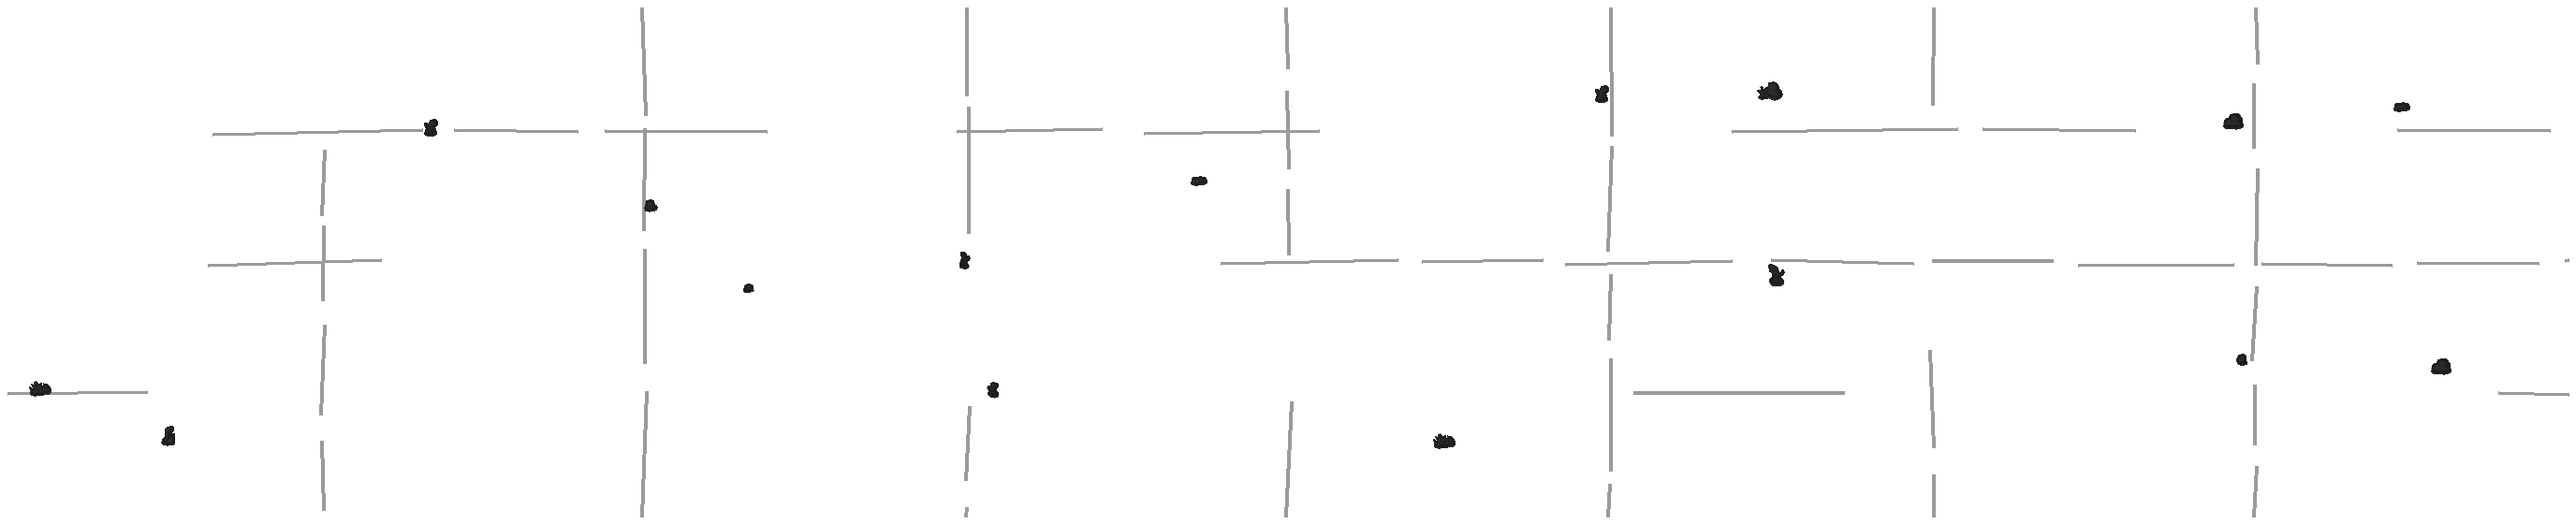
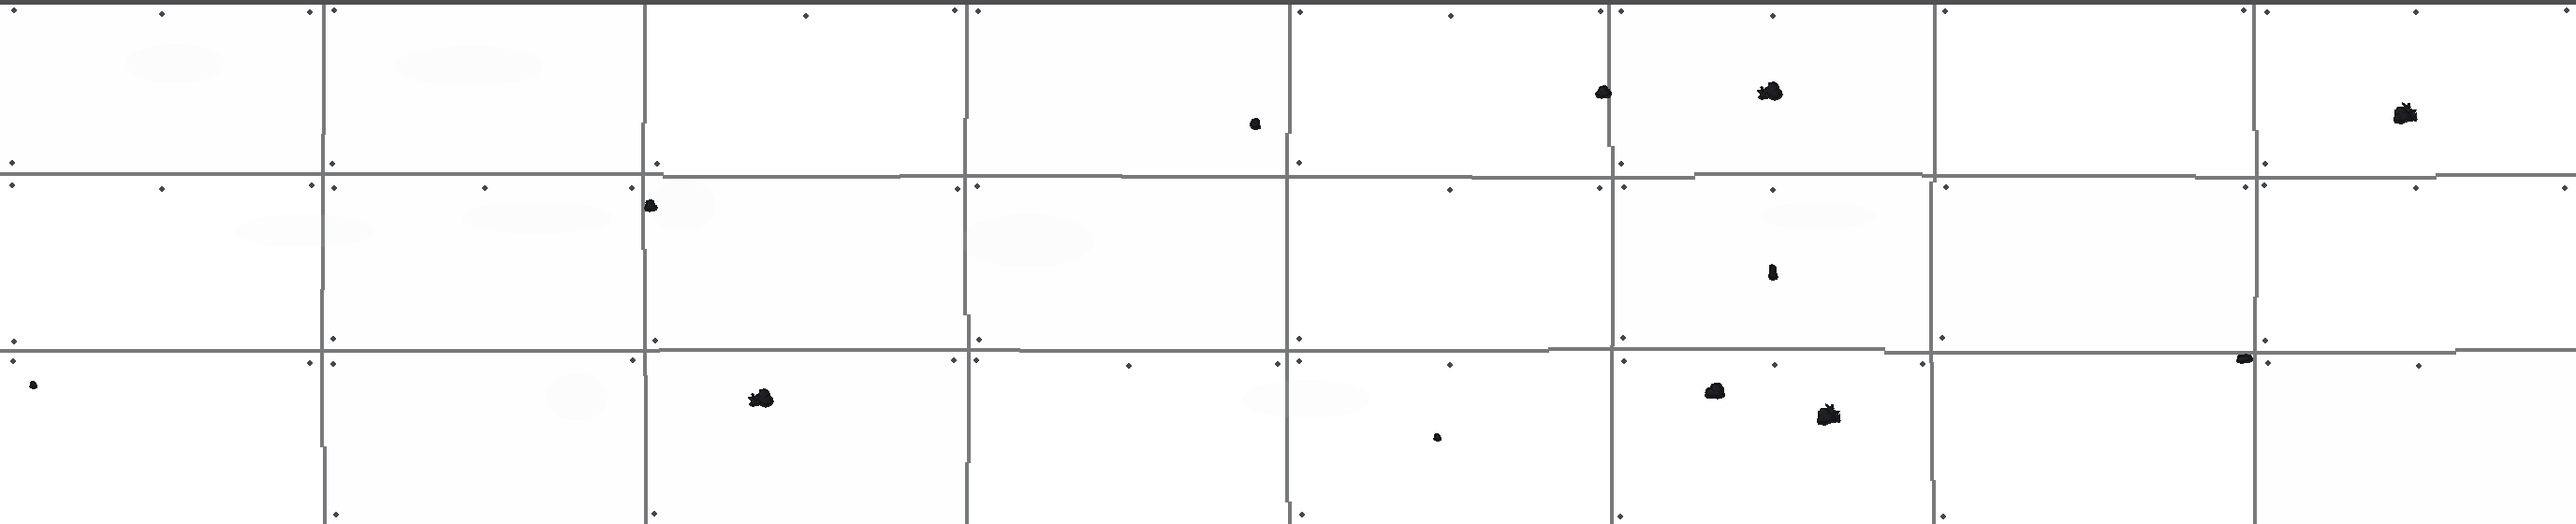
Deck floor v2 - riveted plate decking (design story: the platform top): full 8x3 plate grid with per-plate FLAT tone variation, soft continuous seams with jittered joints, rivets along plate edges, sparse scuffs, cool-tinted debris; replaces the sparse dashed crosses

diff --git a/asset-dev/hub/build_ground.py b/asset-dev/hub/build_ground.py
@@ -96,32 +96,67 @@ n2 = scatter(plaza, tufts, 34, (0.55, 0.60, 0.52))
 plaza.save(OUT1 + "ground_plaza.png"); plaza.save(OUT2 + "ground_plaza.png")
 print("plaza decals:", n1 + n2)
 
-# DECK overlay 2752x560: plate seams (soft wobbly lines) + few gray rocks
+# DECK overlay 2752x560 v2 - riveted plate decking (the platform's top):
+# full plate grid, per-plate FLAT tone variation, soft continuous seams with
+# jittered joints, rivets along edges, sparse scuffs + debris.
 deck = Image.new("RGBA", (2752, 560), (0, 0, 0, 0))
 dd = ImageDraw.Draw(deck)
-seam = (22, 24, 28, 110)
-for i, sx in enumerate(range(-1376+344, 1376, 344)):
-    px = sx + 1376
-    rnd = random.Random(900 + i)
-    yy = 8
-    while yy < 552:
-        seg = rnd.randint(60, 140)
-        if rnd.random() > 0.25:
-            dd.line([(px + rnd.randint(-3, 3), yy), (px + rnd.randint(-3, 3), min(552, yy + seg))],
-                    fill=seam, width=4)
-        yy += seg + rnd.randint(10, 30)
-for j, sy in enumerate(range(140, 560, 140)):
-    rnd = random.Random(950 + j)
-    xx = 8
-    while xx < 2744:
-        seg = rnd.randint(120, 260)
-        if rnd.random() > 0.3:
-            dd.line([(xx, sy + rnd.randint(-3, 3)), (min(2744, xx + seg), sy + rnd.randint(-3, 3))],
-                    fill=seam, width=4)
-        xx += seg + rnd.randint(20, 50)
-n3 = scatter(deck, rocks, 16, (0.5, 0.52, 0.56), margin=30, scale=0.8)
+seam = (26, 27, 31, 150)
+rivet = (30, 31, 35, 210)
+rndDk = random.Random(880)
+PW, PH = 344, 187
+cols = 2752 // PW
+rows = 3
+# per-plate tone variation (flat overlays)
+for r in range(rows):
+    for cix in range(cols):
+        tone = rndDk.randint(-4, 5)
+        if tone == 0:
+            continue
+        col = (255, 255, 255, tone * 3) if tone > 0 else (0, 0, 0, -tone * 4)
+        px, py = cix * PW, r * PH
+        plate = Image.new("RGBA", (PW, PH), col)
+        deck.paste(plate, (px, py), plate)
+# seams: continuous, slightly jittered at joints
+for cix in range(1, cols):
+    x = cix * PW
+    yy = 0
+    while yy < 560:
+        seg = rndDk.randint(120, 220)
+        jx = x + rndDk.randint(-2, 2)
+        dd.line([(jx, yy), (jx, min(560, yy + seg))], fill=seam, width=4)
+        yy += seg
+for r in range(1, rows):
+    y = r * PH
+    xx = 0
+    while xx < 2752:
+        seg = rndDk.randint(220, 420)
+        jy = y + rndDk.randint(-2, 2)
+        dd.line([(xx, jy), (min(2752, xx + seg), jy)], fill=seam, width=4)
+        xx += seg
+# rivets along plate edges (corners + midpoints, jittered)
+for r in range(rows + 1):
+    for cix in range(cols + 1):
+        for (ox, oy) in ((10, 10), (PW - 14, 10), (10, PH - 14), (PW // 2, 12)):
+            if rndDk.random() < 0.35:
+                continue
+            x = cix * PW + ox + rndDk.randint(-2, 2)
+            y = r * PH + oy + rndDk.randint(-2, 2)
+            if 4 < x < 2746 and 4 < y < 554:
+                dd.ellipse([x, y, x + 5, y + 5], fill=rivet)
+# scuffs: soft darker ellipses, sparse
+for i in range(9):
+    sw = rndDk.randint(60, 160); sh = rndDk.randint(24, 60)
+    sx = rndDk.randint(30, 2700 - sw); sy = rndDk.randint(30, 520 - sh)
+    sc = Image.new("RGBA", (sw, sh), (0, 0, 0, 0))
+    sd2 = ImageDraw.Draw(sc)
+    sd2.ellipse([0, 0, sw, sh], fill=(0, 0, 0, 22))
+    deck.paste(sc, (sx, sy), sc)
+# top-wall junction line
+dd.rectangle([0, 0, 2752, 4], fill=(30, 31, 35, 200))
+n3 = scatter(deck, pure_rocks, 12, (0.36, 0.40, 0.48), margin=30, scale=0.8)
 deck.save(OUT1 + "ground_deck.png"); deck.save(OUT2 + "ground_deck.png")
-print("deck seams drawn, rocks:", n3)
+print("deck v2 plated: %dx%d grid, rocks=%d" % (2752 // 344, 3, n3))
 
 # CLIFF band 2752x384 v4 - DESIGN STORY: "the deck is a scrap platform built
 # over the natural rock rise". Clean straight deck-trim edge (no torn lip),
